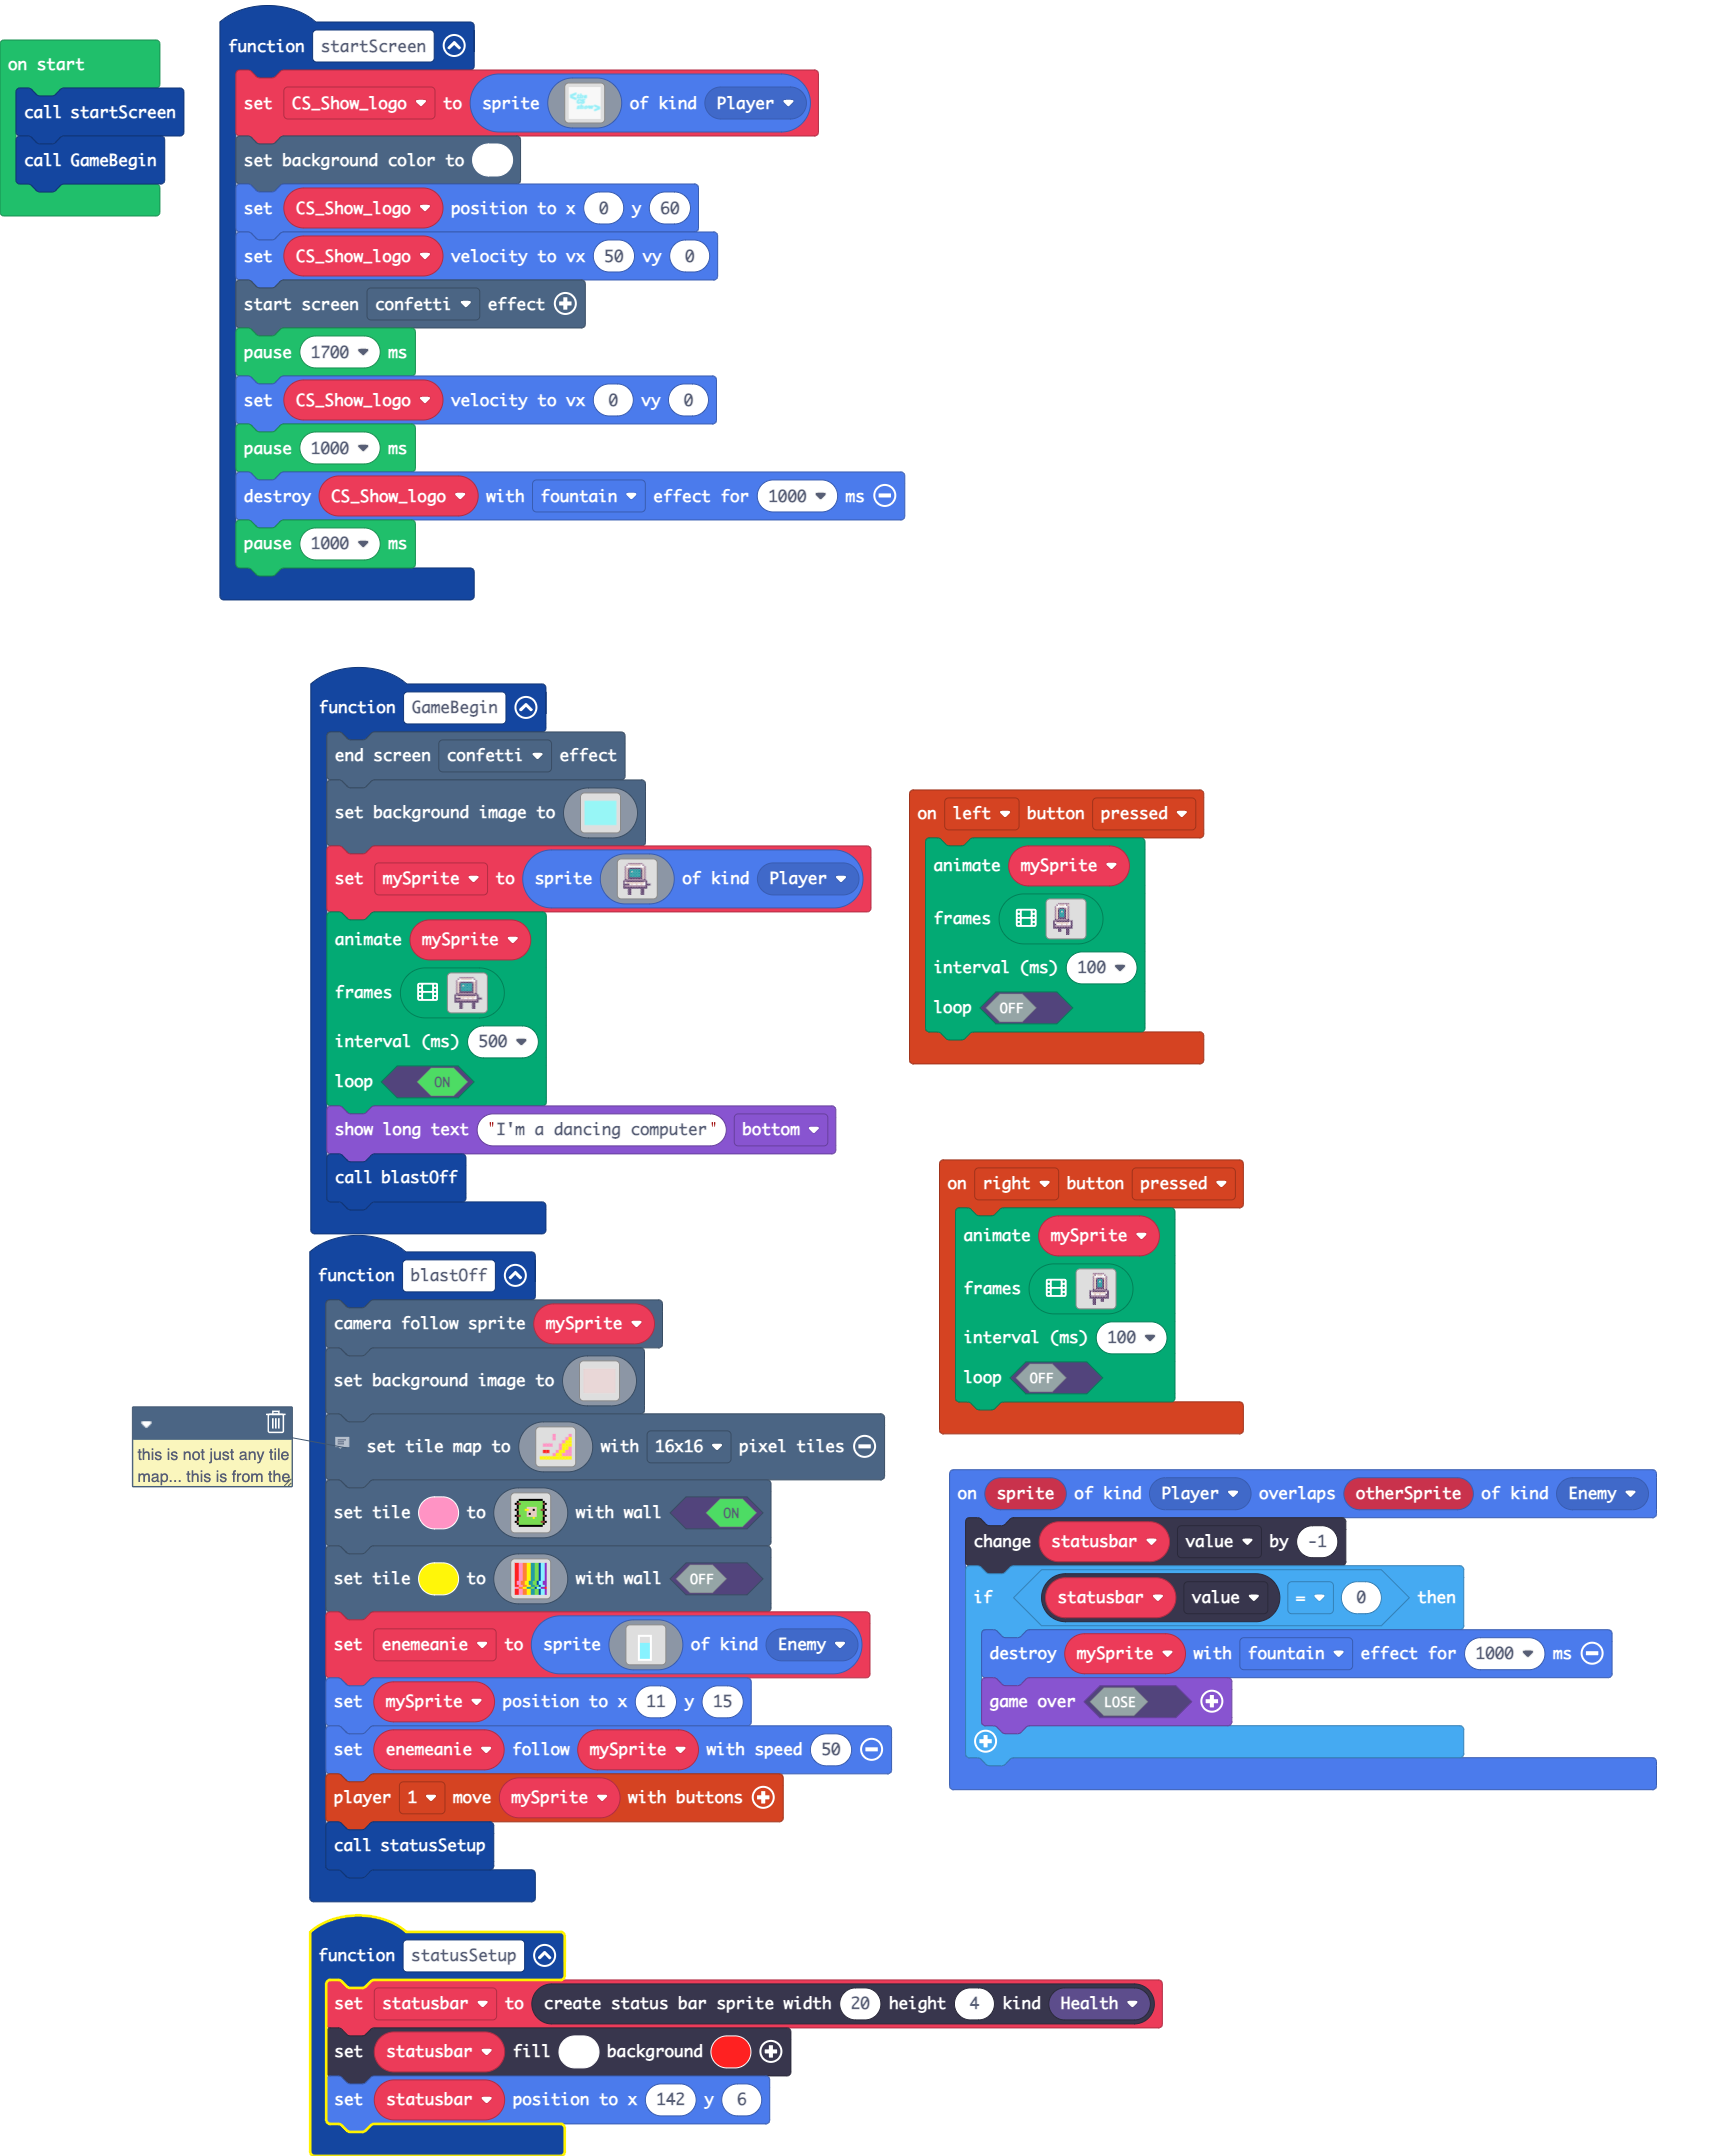
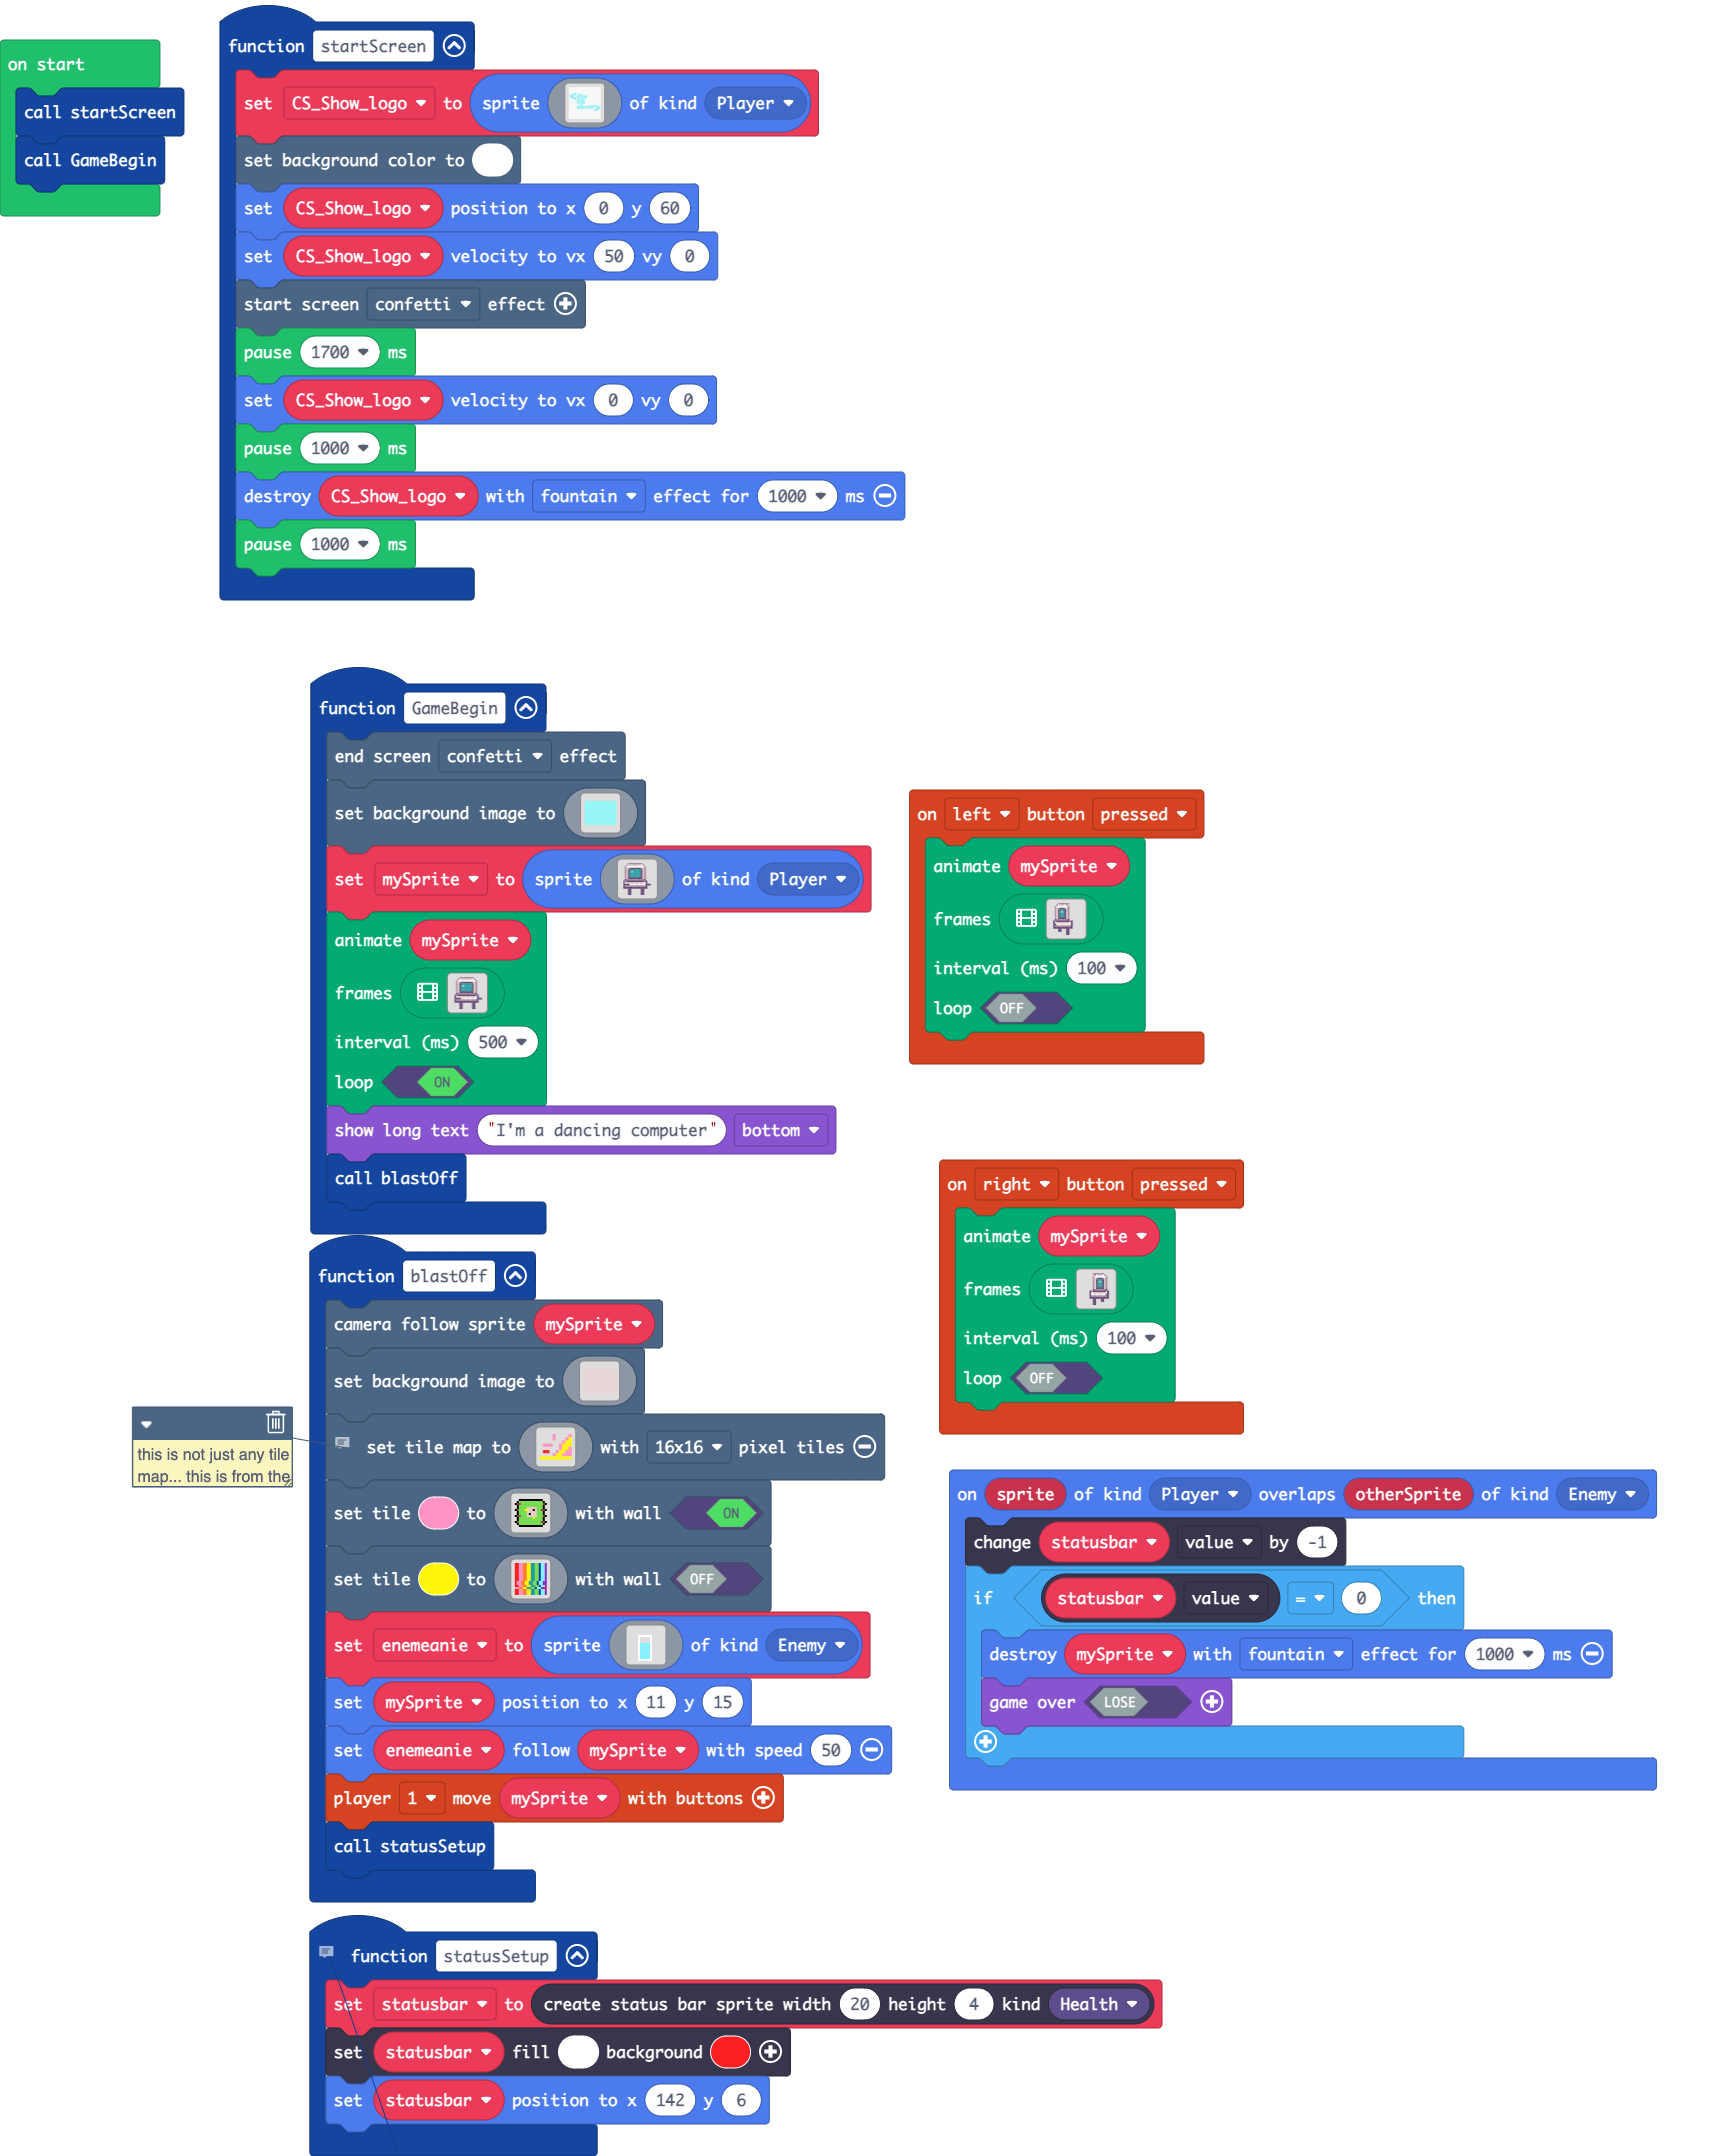
Update main.blocks, main.ts

diff --git a/main.ts b/main.ts
@@ -1,3 +1,5 @@
+// i figured this out from a youtube tutorial... NOT YOU MR. LILHOLT!!!!
+// 
 function statusSetup () {
     statusbar = statusbars.create(20, 4, StatusBarKind.Health)
     statusbar.setColor(1, 2)
